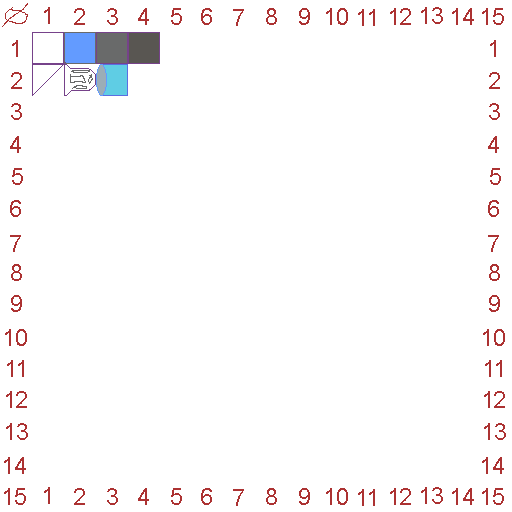
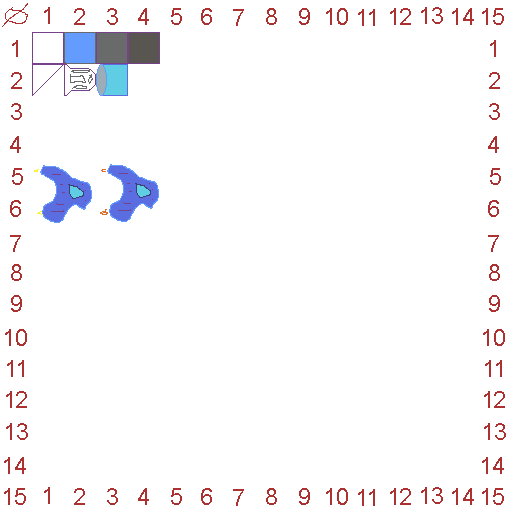
ship spawner graphics

Changed region(s): [[0.1875, 0.3125, 0.3125, 0.4375], [0.0625, 0.3125, 0.1875, 0.4375]]

diff --git a/src/ludumDare43/actors/shipParts.ts b/src/ludumDare43/actors/shipParts.ts
@@ -1,17 +1,17 @@
 import { _ } from 'engine/importsEngine'
-import { SimpleGameEngine } from 'engine/SimpleGameEngine'
 import { getContext } from '../GameContext'
 import * as log from '../../engine/log'
-import { KeyCodes, Keyboard } from 'engine/input/Keyboard'
 
 import * as spriteUtil from '../../engine/anim/spriteUtil'
 import * as anim from '../../engine/anim/anim'
-import * as tween from '../../engine/anim/tween'
+import * as cameras from 'engine/camera/cameras'
 
 interface IShipPart {
   anim: anim.IAnim
 }
 let items: IShipPart[] = []
+
+let tractoredPart: IShipPart = null
 
 interface IShipPartData {
   name: string
@@ -53,13 +53,14 @@ export function create() {
     anim: anim.create(),
   }
 
-  let sprite = ctx.createSprite('ship-001', engine.frame, 0.5, 0.5, 2)
+  let sprite = ctx.createSprite('ship-001', engine.frame, 0.5, 0.5, 1)
   item.anim.sprite = sprite
 
   sprite.interactive = true
   sprite.buttonMode = true
   sprite.on('mouseover', () => {
     sprite.tint = 0xcccccccc
+    tractoredPart = item
   })
   sprite.on('mouseout', () => {
     sprite.tint = 0xffffffff
@@ -75,10 +76,19 @@ export function create() {
 export function updateAll(elapsedTimeSec) {
   let ctx = getContext()
   let kb = ctx.sge.keyboard
+  let mouse = ctx.sge.getMouse()
 
   _.forEach(items, (c) => {
     anim.update(c.anim, elapsedTimeSec)
 
-    c.anim.sprite.x -= elapsedTimeSec * 50
+    if (tractoredPart === c) {
+      let { cx, cy } = cameras.xyToCamera(ctx.camera, mouse)
+      c.anim.sprite.x += (cx - c.anim.sprite.x) * 0.1 * elapsedTimeSec * 60.0
+      c.anim.sprite.y += (cy - c.anim.sprite.y) * 0.1 * elapsedTimeSec * 60.0
+    } else {
+      c.anim.sprite.x -= elapsedTimeSec * 50
+    }
+
+    // Destroy if off screen!!
   })
 }

diff --git a/src/ludumDare43/actors/shipPartSpawners.ts b/src/ludumDare43/actors/shipPartSpawners.ts
@@ -1,15 +1,23 @@
 import { _ } from 'engine/importsEngine'
 import { getContext } from '../GameContext'
-import * as log from '../../engine/log'
+import * as log from 'engine/log'
 
 import * as shipParts from './shipParts'
+import * as anim from 'engine/anim/anim'
+import * as spriteUtil from 'engine/anim/spriteUtil'
 
 interface IShipParSpawner {
   x: number
   y: number
   elapsedSec: number
+  anim: anim.IAnim
 }
 let items: IShipParSpawner[] = []
+
+var animDefault: anim.IAnimData = {
+  frames: [spriteUtil.frame32(5, 1, 2, 2), spriteUtil.frame32(5, 2, 2, 2)],
+  frameTime: 10 / 60,
+}
 
 export function create() {
   let ctx = getContext()
@@ -19,7 +27,12 @@ export function create() {
     x: 600,
     y: 200,
     elapsedSec: 0,
+    anim: anim.create(),
   }
+
+  let sprite = ctx.createSprite('ship-001', animDefault.frames[0], 0.5, 0.5, 1)
+  item.anim.sprite = sprite
+  ctx.layerAbove.addChild(sprite)
 
   items.push(item)
   return item
@@ -31,11 +44,15 @@ export function updateAll(elapsedTimeSec) {
 
   _.forEach(items, (c) => {
     c.elapsedSec += elapsedTimeSec
+
+    c.anim.sprite.x = c.x + 20
+    c.anim.sprite.y = c.y
+
     if (c.elapsedSec > 1) {
       c.elapsedSec = 0
       let shipPart = shipParts.create()
       shipPart.anim.sprite.x = c.x
-      shipPart.anim.sprite.y = c.y
+      shipPart.anim.sprite.y = c.y + _.random(-5, 5, true)
     }
   })
 }

diff --git a/src/ludumDare43/GameContext.ts b/src/ludumDare43/GameContext.ts
@@ -41,6 +41,7 @@ export class GameContext {
   layerFrameRate: PIXI.Container
   layerMap: PIXI.Container
   layerPlayer: PIXI.Container
+  layerAbove: PIXI.Container
   layerUi: PIXI.Container
   layerDetectors: PIXI.Container
   layerDebugGraphics: PIXI.Container
@@ -71,6 +72,7 @@ export class GameContext {
     ctx.camera = cameras.create()
     ctx.layerMap = cameras.addLayer(ctx.camera)
     ctx.layerPlayer = cameras.addLayer(ctx.camera)
+    ctx.layerAbove = cameras.addLayer(ctx.camera)
     ctx.layerDetectors = cameras.addLayer(ctx.camera)
     ctx.layerDebugGraphics = cameras.addLayer(ctx.camera)
     ctx.addLayer(ctx.camera.container)
@@ -85,7 +87,7 @@ export class GameContext {
 
     let sps = shipPartSpawners.create()
     sps.x = 600
-    sps.y = 200
+    sps.y = 20
     sps = shipPartSpawners.create()
     sps.x = 600
     sps.y = 400

diff --git a/src/engine/camera/cameras.ts b/src/engine/camera/cameras.ts
@@ -85,6 +85,12 @@ export function addLayer(c: ICamera, container: PIXI.Container = null) {
   return container
 }
 
+export function xyToCamera(c: ICamera, obj) {
+  let cx = obj.x / c.container.scale.x - c.container.x / c.container.scale.x
+  let cy = obj.y / c.container.scale.y - c.container.y / c.container.scale.y
+  return { cx, cy }
+}
+
 export function updateAll(elapsedTimeSec, elapsedTimeSecRaw) {
   _.forEach(items, (c) => {
     if (c.shakeSec > 0) {
